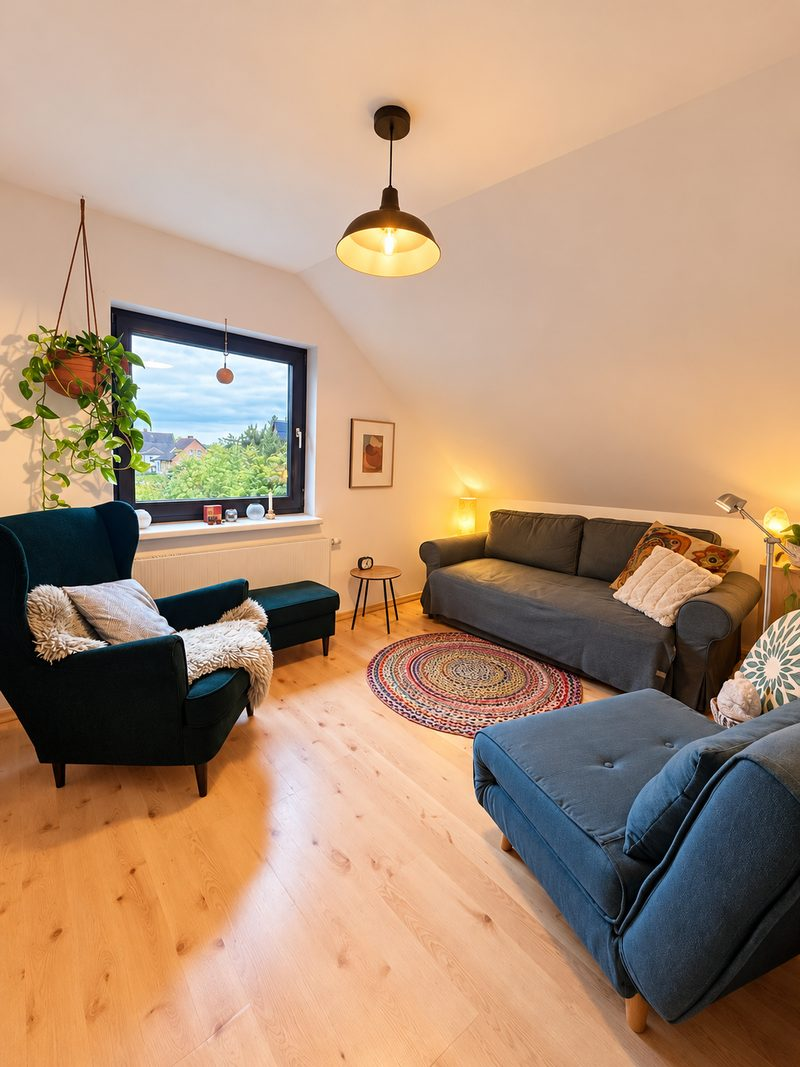
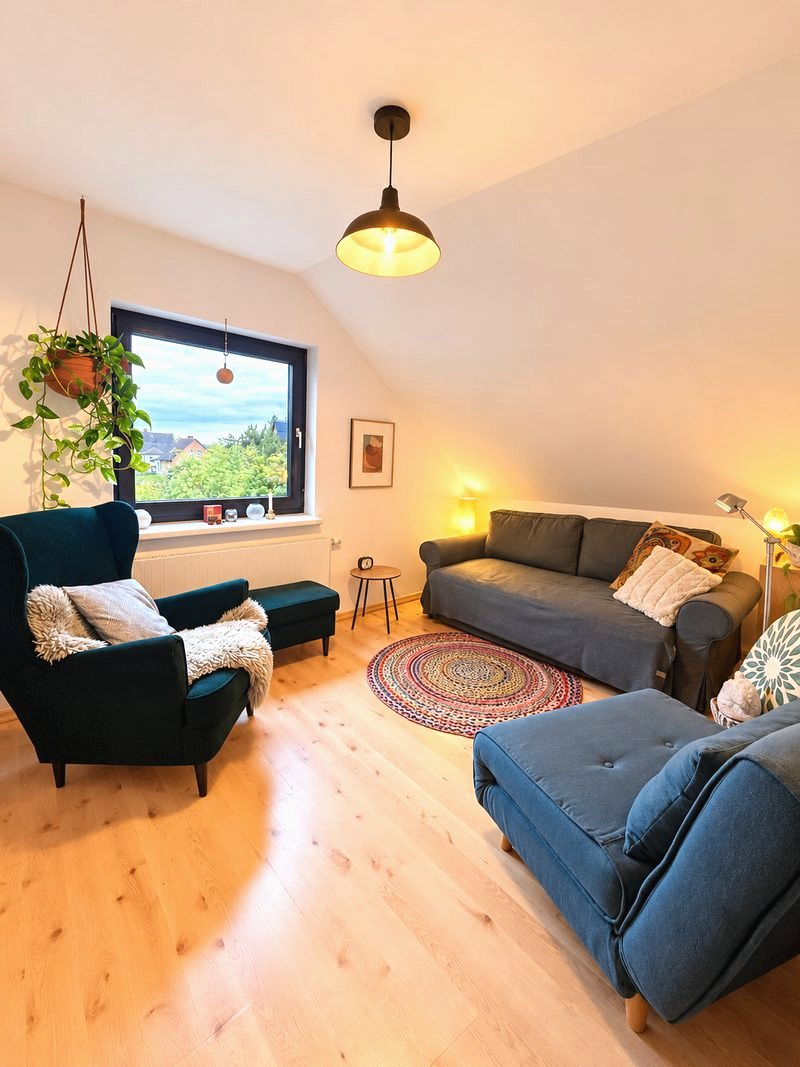
Startseite: Weite und Raum ungeschnitten nebeneinander als Kopf, aufgehellt
Claude-Session: https://claude.ai/code/session_01WitQRUGV1XUjg3b8QtT58N

Changed region(s): [[0.2812, 0.3402, 0.3125, 0.3711], [0.2188, 0.3093, 0.25, 0.3402]]

diff --git a/site/style.css b/site/style.css
@@ -442,3 +442,15 @@ h3 { font-weight: 550; }
 .cards li:nth-child(3) { background-image: radial-gradient(circle at 100% 100%, rgba(230,200,140,.3), rgba(230,200,140,0) 45%); }
 .hero-aside { border-left: 0; padding-left: 0; }
 .hero-aside strong { font-family: var(--display); font-style: italic; font-size: 1.2rem; font-weight: 500; color: var(--green-3); }
+
+/* Startseite (Rückmeldung 26.11.2026, 2. Runde): Bildpaar ungeschnitten nebeneinander als großer Kopf */
+.hero-pair { padding-top: clamp(1rem, 2.5vw, 2rem); }
+.pair { display: grid; grid-template-columns: 1222fr 750fr; gap: clamp(8px, 1.5vw, 18px); align-items: start; }
+.pair figure { margin: 0; }
+.pair img { width: 100%; height: auto; border-radius: 18px; background: var(--sand); }
+.pair figcaption { margin-top: .5rem; font-family: var(--display); font-style: italic; font-size: clamp(1.05rem, .95rem + .5vw, 1.4rem); color: var(--ink-2); }
+.hero { padding-block: var(--s4) var(--s4); }
+.hero h1 { max-width: 14ch; margin-bottom: 0; }
+@media (min-width: 960px) { .hero-grid { grid-template-columns: minmax(0, 5fr) minmax(0, 6fr); gap: var(--s4); align-items: start; } .hero .lead { margin-top: .6rem; } }
+.hero-aside { margin-top: var(--s3); }
+.eyebrow { line-height: 1.3; align-items: baseline; }

diff --git a/build.py b/build.py
@@ -222,21 +222,23 @@ def page(slug):
 def start():
     r = ''
     body = f'''
+<section class="hero-pair" aria-label="Weite und Raum"><div class="wrap">
+  <div class="pair">
+    <figure class="pair-weite">{img(r, 'weite', 'Dünengras vor der Ostsee unter weitem Himmel', 1600, 1310, '(min-width: 1160px) 700px, 60vw', loading='eager')}<figcaption>Weite</figcaption></figure>
+    <figure class="pair-raum">{img(r, 'raum', 'Heller Praxisraum mit Sesseln, Sofa und Blick aus dem Fenster ins Grüne', 1200, 1600, '(min-width: 1160px) 430px, 40vw', loading='eager')}<figcaption>Raum</figcaption></figure>
+  </div>
+</div></section>
+
 <section class="hero"><div class="wrap">
   <div class="hero-grid">
-    <div class="hero-text">
+    <div>
       <p class="eyebrow">Somatic Experiencing® in Wismar und online</p>
       <h1>Raum für das, was Worte <em>nicht</em> erreichen.</h1>
+    </div>
+    <div>
       <p class="lead">Sie haben schon viel verstanden. Und trotzdem holen alte Gefühle und Muster Sie immer wieder ein? Mit Somatic Experiencing beziehen wir den Körper ein, dort, wo alte Reaktionen gespeichert sind. In Ihrem Tempo, in kleinen, sicheren Schritten.</p>
       <div class="cta-row">{btn_kontakt(r)}<a class="btn btn--ghost" href="somatic-experiencing/">Was ist Somatic Experiencing?</a></div>
       <p class="hero-aside"><strong>Kristin Damaschke</strong> · Somatic Experiencing® in Ausbildung · Heilpraktikerin für Psychotherapie · Kunsttherapeutin (M.A.) · viele Jahre Erfahrung in Kliniken</p>
-    </div>
-    <div class="duo" role="group" aria-label="Weite und Raum: Dünen an der Ostsee und der Praxisraum mit Blick nach draußen">
-      <span class="duo-blob duo-blob--a" aria-hidden="true"></span>
-      <span class="duo-blob duo-blob--b" aria-hidden="true"></span>
-      <figure class="duo-weite">{img(r, 'weite', 'Dünengras vor der Ostsee unter weitem Himmel', 1600, 1310, '(min-width: 1100px) 440px, 75vw', loading='eager')}</figure>
-      <figure class="duo-raum">{img(r, 'raum', 'Heller Praxisraum mit Sesseln, Sofa und Blick aus dem Fenster ins Grüne', 1200, 1600, '(min-width: 1100px) 300px, 50vw', loading='eager')}</figure>
-      <p class="duo-caption"><span>Weite</span> <i aria-hidden="true">&amp;</i> <span>Raum</span></p>
     </div>
   </div>
 </div></section>

diff --git a/ANALYSE.md b/ANALYSE.md
@@ -127,7 +127,7 @@ Hauptmenü (sechs Punkte, Logo: „Kristin Damaschke · Lebensfarben · Somatic 
 - **Nah an dr-tiffert.de:** dasselbe tiefe Grün als Grundfarbe, klare Linien, Cormorant Garamond für Überschriften, Inter für Fließtext, großzügiger Weißraum.
 - **Einfacher und wärmer als dr-tiffert.de:** keine dunklen Vollflächen im Seitenkopf, sondern warmes Papierweiß; Knöpfe in normaler Schreibweise statt Großbuchstaben; leicht abgerundete Ecken; ein warmer Akzent (Terrakotta) aus Kristins Aquarellen, sparsam eingesetzt; keine Animation außer sanftem Einblenden.
 - **Farben:** weiches Salbeigrün `#46655A`, Salbei hell `#E3EBE2`, Papier `#FBF7F1`, Puder `#F5E6DE`, Rosé `#E7C3B4`, Terrakotta `#B8694A` (Knöpfe und betonte Wörter), Text `#2E3532`.
-- **Weiblicher, nicht technisch (Rückmeldung 26.11.2026):** Bögen und runde Formen statt Kästen, Knöpfe als Pillen in Terrakotta, Kapitelzeilen kursiv statt in Großbuchstaben, einzelne Wörter in Überschriften kursiv betont, weiche Aquarell-Kreise als Begleiter, kaum Trennlinien. Auf der Startseite verbinden sich Weite und Raum zu einer Komposition: das Meer als Bogenfenster, der Praxisraum davor, sodass der Blick aus dem Zimmer in die Weite geht.
+- **Weiblicher, nicht technisch (Rückmeldung 26.11.2026):** Bögen und runde Formen statt Kästen, Knöpfe als Pillen in Terrakotta, Kapitelzeilen kursiv statt in Großbuchstaben, einzelne Wörter in Überschriften kursiv betont, weiche Aquarell-Kreise als Begleiter, kaum Trennlinien. Auf der Startseite stehen Weite und Raum ungeschnitten nebeneinander als großer Kopf, gleich hoch, leicht aufgehellt; darunter Überschrift und Einstieg.
 - **Bilder:** Das Bildpaar bleibt als Diptychon (Weite links, Raum rechts) direkt unter dem Einstiegssatz. Kristins Aquarelle tragen die Unterseiten als ruhige Bildbänder. Neue Porträts (Fotos: Alexander Tiffert): frontal in der lila Bluse auf der Startseite, ruhig in rostroter Bluse auf „Über mich“, lachend auf „Kontakt“. Alle Bilder haben Alt-Texte.
 - **Lesbarkeit:** große Schrift (18 bis 19 px Fließtext), kurze Absätze, Kontrast nach WCAG AA, funktioniert auf dem Handy mit einer Hand.
 - **Ein Weg zum Kontakt:** Der Knopf „Kennenlernen“ steht oben rechts und am Ende jeder Seite.
